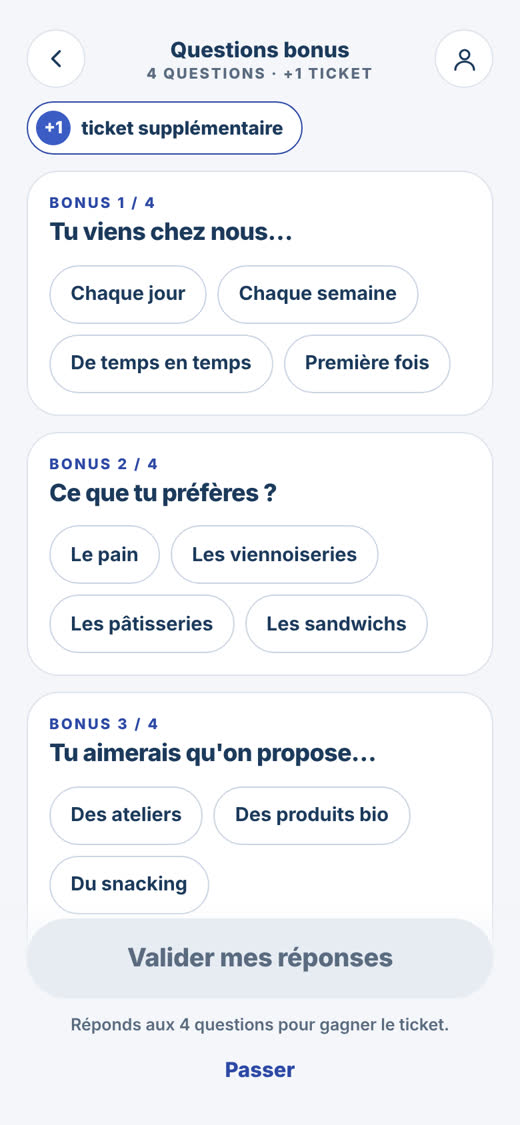
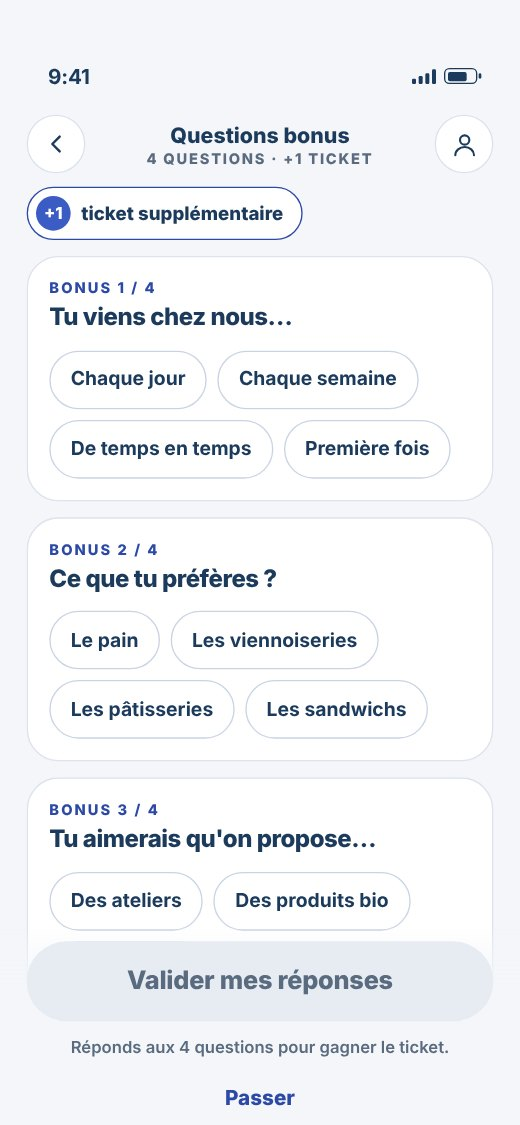
Jeux (audit 17/11, expert 1) : tombola debloquee, demo sans ecriture, enchainements automatiques, haptique, choix « rester en contact »
- Tombola : le parrainage menait a une impasse (pas d'acces aux coordonnees) ; nouvel etat inscrit.
- ?demo=1 conserve par la redirection /parcours -> /jouer (la demo ecrivait en base).
- Formulaire : cases et choix conserves apres une erreur d'envoi.
- Consentements : rester en contact avec Flowin Event / avec ce commerce, donnees jamais vendues, echangees ni commercialisees.
- Quiz : passage automatique a la question suivante, reponse touchee en couleur pleine, commerce dans la barre.
- Flash, roue, impression tombola, urne : suite automatique apres l'animation ; navigator.vibrate aux moments cles.
- Apres ticket / billet : voir mon profil, autres commerces.
- Cibles tactiles 44 px ; roue (pointeur, jante, moyeu, legende) ; tombola (amorce du billet, disques retires) ; bouton bleu #3B5CC4.
- Captures plaquette regenerees ; rapport docs/audit-2026-11-17/EXPERT-1-jeux.md.

Claude-Session: https://claude.ai/code/session_01ULZ5sPqYQcCeKhumQirdNM

diff --git a/admin/lib/masters/engine.ts b/admin/lib/masters/engine.ts
@@ -42,14 +42,20 @@ export interface EtatPartie {
   vitrineVote: boolean
   tombolaNo: string
   after: string | null
-  profil: { prenom?: string; nom?: string; email?: string; tel?: string; cp?: string; age?: string } | null
+  profil: { prenom?: string; nom?: string; email?: string; tel?: string; cp?: string; age?: string; genre?: string; src?: string } | null
+  /** Coordonnees validees pour cette partie (audit jeux 17/11) : decide si le parrainage
+   *  mene encore aux coordonnees. Avant, la tombola (ticket tire AVANT l'inscription)
+   *  restait bloquee sur le parrainage, sans acces au formulaire. */
+  inscrit: boolean
+  /** Cases cochees du formulaire, conservees si l'envoi echoue (avant : tout se decochait). */
+  consent: { jeu: boolean; anim: boolean; com: boolean }
   parrainN: number
   erreur: string
   envoi: boolean
 }
 
 export function etatInitial(): EtatPartie {
-  return { mesTickets: null, resultat: null, qi: 0, rep: [], bonnes: 0, bonusFait: false, ticket: '', ticketBonus: '', gain: null, caseIdx: null, rotation: -12, voteIdx: null, vitrineVote: false, tombolaNo: '', after: null, profil: null, parrainN: 0, erreur: '', envoi: false }
+  return { mesTickets: null, resultat: null, qi: 0, rep: [], bonnes: 0, bonusFait: false, ticket: '', ticketBonus: '', gain: null, caseIdx: null, rotation: -12, voteIdx: null, vitrineVote: false, tombolaNo: '', after: null, profil: null, inscrit: false, consent: { jeu: false, anim: false, com: false }, parrainN: 0, erreur: '', envoi: false }
 }
 
 /* ── Outils ────────────────────────────────────────────────────────────── */
@@ -259,7 +265,7 @@ function quizScreen(v: VueMaster, r: EtatPartie, state: 'idle' | 'ok' | 'ko'): s
   const q = v.questions[r.qi] || { txt: '[question à compléter]', opts: ['[réponse]', '[réponse]'], ok: 0, expl: '' }
   const tot = v.questions.length || 1, ring = 138.2, left = 30
   const choix = r.rep[r.qi]
-  let h = '<div class="scr ' + (v.key === 'quiz' ? 'stage' : 'bg-o') + '">' + barre() + '<div class="qtop"><button class="iconbtn" data-go="s-accueil" aria-label="Quitter">' + icon('x', 20, 2) + '</button><div class="mid"><small>QUESTION ' + (r.qi + 1) + ' / ' + tot + '</small><div class="prog">' + v.questions.map(function (_, i) { return '<i class="' + (i <= r.qi ? 'on' : '') + '"></i>' }).join('') + '</div></div>' +
+  let h = '<div class="scr ' + (v.key === 'quiz' ? 'stage' : 'bg-o') + '">' + barre() + '<div class="qtop"><button class="iconbtn" data-go="s-accueil" aria-label="Quitter">' + icon('x', 20, 2) + '</button><div class="mid"><small class="qcom">' + mono(v, 'width:22px;height:22px;font-size:9px;border-radius:7px') + '<span class="qnom">' + esc(v.who.nom) + '</span><span>QUESTION ' + (r.qi + 1) + ' / ' + tot + '</span></small><div class="prog">' + v.questions.map(function (_, i) { return '<i class="' + (i <= r.qi ? 'on' : '') + '"></i>' }).join('') + '</div></div>' +
     '<div class="timer"><svg width="54" height="54" viewBox="0 0 54 54"><circle cx="27" cy="27" r="22" fill="#fff" stroke="#E7ECF3" stroke-width="5"/><circle class="tring" cx="27" cy="27" r="22" fill="none" stroke="var(--ring,var(--c))" stroke-width="5" stroke-linecap="round" stroke-dasharray="' + ring + '" stroke-dashoffset="' + (state === 'idle' ? 0 : n1(ring * .6)) + '"/></svg><b class="tnum">' + (state === 'idle' ? left : '') + '</b></div></div>' +
     BAND + '<div class="body"><div class="card qcard">' + geo([['c', 290, -40, 100, 'var(--c2)']]) + '<div class="kicker" style="position:relative">' + esc(v.who.nom) + '</div><h2 class="qtxt">' + esc(q.txt) + '</h2></div><div class="opts">'
   q.opts.forEach(function (o, i) {
@@ -314,6 +320,21 @@ S['q-bonusok'] = { r: function (v, r) {
 } }
 
 /* Inscription et gain */
+/** Consentements (audit 17/11, regle Romain) : 1 case obligatoire pour le jeu, puis les deux
+ *  choix facultatifs « rester en contact avec Flowin Event » et « rester en contact avec ce
+ *  commerce ». Donnees utilisees par Flowin ou par le commerce choisi, jamais vendues,
+ *  echangees ni commercialisees. Aucune case cochee par defaut. */
+function caseConsent(cle: string, on: boolean, texte: string, req: boolean): string {
+  return '<div class="consent' + (on ? ' on' : '') + '" data-tog' + (req ? ' data-req' : '') + ' data-consent="' + cle + '" role="checkbox" aria-checked="' + on + '" tabindex="0"><span class="box">' + icon('check', 16, 3) + '</span><div><p>' + texte + '</p>' + (req ? '<em class="req">Obligatoire</em>' : '<em>Facultatif</em>') + '</div></div>'
+}
+function consentements(v: VueMaster, r: EtatPartie): string {
+  const c = r.consent || { jeu: false, anim: false, com: false }
+  return '<div style="margin-top:16px">' +
+    caseConsent('jeu', c.jeu, 'J\'autorise Flowin à conserver mes coordonnées uniquement dans le cadre du jeu. Mes données ne sont ni échangées ni revendues.', true) +
+    caseConsent('anim', c.anim, 'Je souhaite rester en contact avec Flowin Event : offres, bons deals, prochains events.', false) +
+    caseConsent('com', c.com, 'Je souhaite rester en contact avec ce commerce' + (v.who.nom ? ' : ' + esc(v.who.nom) : '') + '.', false) +
+    '<p class="mention" style="text-align:left">Tes données sont utilisées par Flowin ou par le commerce choisi. Elles ne sont jamais vendues, échangées ni commercialisées.</p></div>'
+}
 S['c-inscription'] = { tall: true, r: function (v, r) {
   const ages = ['Moins de 18', '18–24', '25–34', '35–44', '45–54', '55–64', '65 et +'], src = ['Instagram', 'Facebook', 'Affiche', 'Bouche à oreille', 'Autre']
   const imm = r.after === 'c-billet'
@@ -326,12 +347,11 @@ S['c-inscription'] = { tall: true, r: function (v, r) {
     '<div class="two"><div class="fld"><label for="f1">Prénom</label><input id="f1" class="inp" autocomplete="given-name" value="' + esc(p.prenom || '') + '"></div><div class="fld"><label for="f2">Nom</label><input id="f2" class="inp" autocomplete="family-name" value="' + esc(p.nom || '') + '"></div></div>' +
     '<div class="fld"><label for="f3">Email</label><input id="f3" class="inp" type="email" autocomplete="email" value="' + esc(p.email || '') + '"></div>' +
     '<div class="fld"><label for="f4">Téléphone</label><input id="f4" class="inp" type="tel" autocomplete="tel" value="' + esc(p.tel || '') + '"></div>' +
-    '<div class="fld"><div class="lab">Sexe <span class="opt-l">facultatif</span></div><div class="seg" role="radiogroup" aria-label="Sexe"><button data-seg data-genre="Homme">Homme</button><button data-seg data-genre="Femme">Femme</button></div></div>' +
+    '<div class="fld"><div class="lab">Sexe <span class="opt-l">facultatif</span></div><div class="seg" role="radiogroup" aria-label="Sexe"><button data-seg data-genre="Homme"' + (p.genre === 'Homme' ? ' class="on"' : '') + '>Homme</button><button data-seg data-genre="Femme"' + (p.genre === 'Femme' ? ' class="on"' : '') + '>Femme</button></div></div>' +
     '<div class="fld"><div class="lab">Tranche d\'âge</div><div class="ages">' + ages.map(function (a) { return '<button class="chip' + (p.age === a ? ' on' : '') + '" data-one="age" data-val="' + esc(a) + '">' + a + '</button>' }).join('') + '</div></div>' +
     '<div class="fld"><label for="f6">Code postal</label><input id="f6" class="inp" inputmode="numeric" autocomplete="postal-code" style="width:50%" value="' + esc(p.cp || '') + '"></div>' +
-    '<div class="fld"><div class="lab">Comment nous as-tu connus ?</div><div class="chips">' + src.map(function (s) { return '<button class="chip" data-one="src" data-val="' + esc(s) + '">' + s + '</button>' }).join('') + '</div></div>' +
-    '<div style="margin-top:16px"><div class="consent" data-tog data-req data-consent="jeu" role="checkbox" aria-checked="false" tabindex="0"><span class="box">' + icon('check', 16, 3) + '</span><div><p>J\'autorise Flowin à conserver mes coordonnées uniquement dans le cadre du jeu. Mes données ne sont ni échangées ni revendues.</p><em class="req">Obligatoire</em></div></div>' +
-    '<div class="consent" data-tog data-consent="anim" role="checkbox" aria-checked="false" tabindex="0"><span class="box">' + icon('check', 16, 3) + '</span><div><p>J\'autorise Flowin à me faire participer à ses animations.</p><em>Facultatif</em></div></div></div>' +
+    '<div class="fld"><div class="lab">Comment nous as-tu connus ?</div><div class="chips">' + src.map(function (s) { return '<button class="chip' + (p.src === s ? ' on' : '') + '" data-one="src" data-val="' + esc(s) + '">' + s + '</button>' }).join('') + '</div></div>' +
+    consentements(v, r) +
     (r.erreur ? '<p class="fm-err" role="alert">' + esc(r.erreur) + '</p>' : '') + '</div>' +
     foot(btn(r.envoi ? 'Envoi…' : 'Valider et recevoir mon gain', 'c-valider', '', ' data-need disabled') + '<p class="mention">Coche la première case pour valider.</p>') + '</div>'
 } }
@@ -344,7 +364,7 @@ S['c-billet'] = { tall: true, r: function (v, r) {
     '<div class="body" style="padding-top:2px"><h2 class="h2 a-rise" style="text-align:center;font-size:33px">Bravo, c\'est gagné&nbsp;!</h2>' +
     '<div class="billet"><div class="bt">' + geo([['c', 250, -40, 140, '#fff'], ['h', 300, 70, 70, '#fff']]) + '<small>Billet gagnant · ' + esc(v.billetChez) + '</small><h3>' + esc(nom) + '</h3><span>' + esc(cond) + '</span></div><div class="perf"><i></i><i></i></div>' +
     '<div class="bb"><div class="qrw" data-qr="' + esc(code) + '">' + qr(42, 110) + '</div><dl class="kv"><dt>N° de billet</dt><dd class="num">' + esc(code) + '</dd><dt>Valable jusqu\'au</dt><dd>' + txt(v.tirage) + '</dd><dt>Où</dt><dd>' + esc(v.billetChez) + '</dd></dl></div></div>' +
-    '<p class="mention" style="color:var(--ink2);font-size:13.5px">Montre ce billet en caisse : le commerçant le valide avec son code. Il est rangé dans ton profil.</p></div>' +
+    '<p class="mention" style="color:var(--ink2);font-size:13.5px">Montre ce billet en caisse : le commerçant le valide avec son code. Il est rangé dans ton profil.</p><button class="lnk" data-go="c-profil">Voir mon lot dans mon profil</button></div>' + autresCommerces(v) +
     dock({ cta: btn('Parrainer mes amis', 'c-parrainage'), nav: '' }) + '</div>'
 } }
 
@@ -365,7 +385,7 @@ S['c-ticket'] = { tall: true, r: function (v, r) {
     (n ? '<div class="tk"><div class="main"><small>Ticket · ' + esc(v.who.nom) + '</small><b class="num">' + esc(code) + '</b><span>Tirage au sort le ' + txt(v.tirage) + '</span></div><div class="stub"><b>N° ' + esc(numCourt(code)) + '</b></div></div>' : '') +
     '<div class="card stack a-rise" style="--d:.5s"><span class="cnt">' + n + '</span><p>' + (n > 1 ? 'tickets pour ce tirage. ' : 'ticket pour ce tirage. ') + (n ? 'On te prévient par email si tu gagnes.' : 'Fais un sans-faute demain pour gagner ton ticket.') + '</p></div>' +
     '<div class="card infobox a-rise" style="--d:.6s"><div class="inforow">' + icon('users', 21) + '<span>' + esc(v.parrain) + '</span></div><div class="inforow">' + icon('clock', 21) + 'Reviens demain : une partie par jour et par commerce</div></div></div>' +
-    autresCommerces(v) +
+    autresCommerces(v) + '<button class="lnk" data-go="c-profil">Voir mes tickets dans mon profil</button>' +
     dock({ cta: btn('Parrainer mes amis', 'c-parrainage'), nav: '' }) + '</div>'
 } }
 
@@ -374,7 +394,7 @@ S['c-parrainage'] = { tall: true, r: function (v, r) {
   const se = v.superEvent
   /* Etape AVANT les coordonnees (Romain, 31/10) : resultat -> parrainage ->
      coordonnees -> « Valider et recevoir mon gain ». */
-  const avant = !r.ticket && !!r.after
+  const avant = !r.inscrit && !!r.after
   return '<div class="scr bg-w">' + barre() + hdr(v, { back: 's-accueil', title: 'Parraine tes amis', small: 'Gagne plus de chances' }) +
     '<div class="body" style="padding-top:6px"><div class="card event" style="padding:16px;margin-top:4px;background:var(--home)">' + geo([['c', 255, -30, 110, 'var(--c)'], ['o', 300, 62, 40, '#fff']]) +
     '<div class="kicker" style="color:var(--ink)">Ta récompense</div><div style="font-size:20px;font-weight:800;line-height:1.2;margin-top:6px;max-width:215px">' + esc(v.parrain) + '</div>' +
@@ -601,8 +621,8 @@ function tombolaTicket(v: VueMaster, r: EtatPartie): string {
     '<div class="line"></div><div style="font-size:14px;font-weight:800">Tirage au sort le ' + txt(v.tirage) + '</div><div class="bar"></div><div style="font-size:11px;font-weight:700;color:var(--muted);margin-top:6px">' + esc(v.who.nom) + '</div></div>'
 }
 S['t-tirer'] = { r: function (v) {
-  return '<div class="scr bg-o">' + barre() + geo([['c', -50, 560, 170, 'var(--c2)'], ['h', 280, 640, 120, 'var(--c)', 0, .1]]) + hdr(v, { back: 's-regles' }) + BAND + etapes(0) +
-    '<div class="body" style="text-align:center"><div class="kicker" style="margin-top:14px">Tombola du jour</div><h2 class="h2" style="font-size:34px;margin-top:6px">Ton ticket<br>t\'attend</h2><div class="machine"><div class="slot"></div></div>' +
+  return '<div class="scr bg-o">' + barre() + hdr(v, { back: 's-regles' }) + BAND + etapes(0) +
+    '<div class="body" style="text-align:center"><div class="kicker" style="margin-top:14px">Tombola du jour</div><h2 class="h2" style="font-size:34px;margin-top:6px">Ton ticket<br>t\'attend</h2><div class="machine"><div class="slot"></div><div class="amorce" aria-hidden="true"><div class="amorce-tk"><small>Ticket n°</small><i></i></div></div></div>' +
     '<button class="bigbtn" data-go="t-impression">Tirer<br>mon ticket</button><p class="mention" style="margin-top:34px">Un ticket par jour et par commerce</p></div></div>'
 } }
 S['t-impression'] = { r: function (v, r) {
@@ -626,16 +646,17 @@ S['t-res-instant'] = { r: function (v) {
 /* Roue */
 function wheelSvg(v: VueMaster): string {
   const cx = 165, cy = 165, r = 146, n = Math.max(2, v.cases.length), pas = 360 / n
-  let h = '<svg viewBox="0 0 330 330"><circle cx="165" cy="165" r="163" fill="#fff" stroke="#C9D4E3" stroke-width="1.5"/>'
+  let h = '<svg viewBox="0 0 330 330"><circle cx="165" cy="165" r="161" fill="#fff" stroke="#0F172A" stroke-width="5"/>'
   v.cases.forEach(function (s, i) {
     const a0 = (i * pas - pas / 2) * Math.PI / 180, a1 = (i * pas + pas / 2) * Math.PI / 180
     h += '<path d="M' + cx + ' ' + cy + ' L' + n1(cx + r * Math.sin(a0)) + ' ' + n1(cy - r * Math.cos(a0)) + ' A' + r + ' ' + r + ' 0 ' + (pas > 180 ? 1 : 0) + ' 1 ' + n1(cx + r * Math.sin(a1)) + ' ' + n1(cy - r * Math.cos(a1)) + 'Z" fill="' + esc(s.fond) + '" stroke="#fff" stroke-width="3"/>'
     h += '<g transform="rotate(' + (i * pas) + ' ' + cx + ' ' + cy + ')"><text x="' + cx + '" y="' + (cy - r * .6) + '" transform="rotate(-90 ' + cx + ' ' + (cy - r * .6) + ')" text-anchor="middle" dominant-baseline="central" font-family="Roboto,sans-serif" font-weight="800" font-size="' + (s.label.length > 11 ? 12.5 : 15) + '" fill="' + esc(s.texte) + '">' + esc(s.label.length > 16 ? s.label.slice(0, 15) + '…' : s.label) + '</text></g>'
   })
   for (let k = 0; k < 16; k++) { const a = k * 22.5 * Math.PI / 180; h += '<circle class="bulb' + (k % 2 ? ' b2' : '') + '" cx="' + n1(cx + 155 * Math.sin(a)) + '" cy="' + n1(cy - 155 * Math.cos(a)) + '" r="4" fill="#F5A100"/>' }
-  return h + '<circle cx="165" cy="165" r="34" fill="#fff" stroke="#C9D4E3" stroke-width="1.5"/><circle cx="165" cy="165" r="14" fill="var(--c)"/></svg>'
+  return h + '<circle cx="165" cy="165" r="146" fill="none" stroke="#0F172A" stroke-width="2"/><circle cx="165" cy="165" r="32" fill="#fff" stroke="#0F172A" stroke-width="6"/><circle cx="165" cy="165" r="12" fill="var(--c)"/></svg>'
 }
-function pointer(): string { return '<svg class="pointer" viewBox="0 0 40 48"><path d="M20 46 L4 12 A16 16 0 1 1 36 12 Z" fill="#fff" stroke="#C9D4E3" stroke-width="1.5"/><circle cx="20" cy="15" r="6" fill="var(--c)"/></svg>' }
+/* Pointeur facon film (audit coherence 17/11) : triangle rouge cerne, pointe vers le bas, a cheval sur la jante. */
+function pointer(): string { return '<svg class="pointer" viewBox="0 0 40 48"><path d="M4 4 L36 4 L20 44 Z" fill="#E5322D" stroke="#0F172A" stroke-width="4" stroke-linejoin="round"/></svg>' }
 function wheelBlock(v: VueMaster, rot: number): string { return '<div class="wheelbox">' + pointer() + '<div class="wheel" style="transform:rotate(' + rot + 'deg)">' + wheelSvg(v) + '</div></div>' }
 /** Rotation finale qui amene la case i sous l'aiguille. */
 export function rotationPourCase(v: VueMaster, i: number): number { const pas = 360 / Math.max(2, v.cases.length); return 360 * 5 - i * pas }
@@ -643,7 +664,7 @@ function caseCourante(v: VueMaster, r: EtatPartie) { return r.caseIdx != null ? 
 S['r-roue'] = { r: function (v) {
   const tir = v.lots.find(function (l) { return l.mode === 'tir' })
   return '<div class="scr bg-m">' + barre() + hdr(v, { back: 's-regles' }) + BAND + etapes(0) + '<div class="body" style="text-align:center"><div class="kicker" style="margin-top:12px">Un tour offert</div><h2 class="h2" style="font-size:33px;margin-top:4px">Tente ta chance</h2>' + wheelBlock(v, -12) +
-    '<div class="legend">' + icon('ticket', 18) + 'Case « Ticket » : 1 ticket pour le tirage du ' + txt(courte(v.tirage)) + (tir ? '' : '') + '</div></div>' + foot(btn('Lancer la roue', 'r-lancer', 'a-pulse')) + '</div>'
+    '<div class="legend">' + icon('ticket', 18) + '<span>Case « Ticket » : 1 ticket pour le tirage du ' + txt(courte(v.tirage)) + (tir ? '' : '') + '</span></div></div>' + foot(btn('Lancer la roue', 'r-lancer', 'a-pulse')) + '</div>'
 } }
 S['r-tourne'] = { r: function (v, r) {
   const c = caseCourante(v, r)

diff --git a/admin/app/jouer/JouerClient.tsx b/admin/app/jouer/JouerClient.tsx
@@ -20,7 +20,26 @@ import { MASTER_CSS } from '@/lib/masters/css'
 import { rendreEcran, etatInitial, rotationPourCase, regleBarre, regleParte, regleSuperReel, reglePastille, ecranExiste, DEROULES, type EtatPartie } from '@/lib/masters/engine'
 import { chargerMesTickets, nonVus, versVue, marquerVus, TICKETS_EXEMPLE, type ResultatRow } from '@/lib/masters/tickets'
 import type { VueMaster } from '@/lib/masters/resolve'
-import { writeJoueur, getJoueurLocal, animationDejaJouee, dejaJoueAujourdhuiCeQr, CONSENTEMENT_VERSION } from '@/lib/parcours'
+import { writeJoueur, getJoueurLocal, animationDejaJouee, dejaJoueAujourdhuiCeQr } from '@/lib/parcours'
+
+/* Version du texte de consentement des masters (audit 17/11 : ajout des choix « rester en
+   contact avec Flowin Event » et « rester en contact avec ce commerce »). */
+const CONSENTEMENT_MASTER_VERSION = 'flowin-consentement-2026-11-17'
+/* Enchainement automatique (ecran -> [suite, delai ms]) des ecrans sans decision. */
+const AUTO_SUITE: Record<string, [string, number]> = {
+  's-flash': ['s-accueil', 2600],
+  'q-bonne': ['@suite-quiz', 2200],
+  'q-mauvaise': ['@suite-quiz', 3600],
+  't-impression': ['t-resultat', 3700],
+  'r-tourne': ['r-resultat', 6000],
+  'v-envoi': ['v-resultat', 2900],
+}
+/* Retour haptique (navigator.vibrate, ignore la ou il n'existe pas, ex. iOS Safari). */
+const VIBRATIONS: Record<string, number | number[]> = {
+  'q-bonne': 35, 'q-mauvaise': [20, 60, 20],
+  'r-gain': [60, 50, 120], 't-res-instant': [60, 50, 120], 'c-billet': [60, 50, 120],
+  'q-bonusok': [40, 40, 80], 'r-ticket': [40, 40, 80], 'c-ticket': 40, 'v-envoi': 30,
+}
 import { doitRefuserDigital } from '@/components/parcours/ParcoursHero'
 import { buildInviteLink } from '@/lib/parrainage'
 import { generateTicket } from '@/lib/ticket'
@@ -154,6 +173,12 @@ export default function JouerClient(p: Props) {
     /* Animations et minuteurs d'entree d'ecran. */
     function entree(id: string, el: HTMLElement | null) {
       if (!el) return
+      /* Audit jeux 17/11 : retour haptique et enchainement automatique des ecrans d'attente.
+         Le bouton reste affiche (le joueur presse peut toucher avant). Jamais dans un cadre
+         d'apercu ni sur un ecran de depart impose (navigation manuelle du Super Admin). */
+      vibrer(VIBRATIONS[id])
+      const auto = AUTO_SUITE[id]
+      if (auto && !enCadre && !p.apercu) plus_tard(() => { if (courant.current === id) aller(auto[0]) }, auto[1])
       if (id === 'q-question' && p.timer > 0) {
         let n = p.timer
         const b = el.querySelector('.tnum'), ring = el.querySelector('.tring')
@@ -268,6 +293,10 @@ export default function JouerClient(p: Props) {
         : '<div class="card" style="padding:14px 16px;margin-top:12px;font-weight:600;color:#3a4d63">Pas encore de super ticket : joue dans une station.</div>'
     }
 
+    function vibrer(motif?: number | number[]) {
+      if (!motif) return
+      try { if (typeof navigator !== 'undefined' && typeof navigator.vibrate === 'function') navigator.vibrate(motif) } catch { /* ignore */ }
+    }
     function repondre(i: number | null) {
       if (courant.current !== 'q-question') return
       const q = v.questions[r.qi]
@@ -293,7 +322,7 @@ export default function JouerClient(p: Props) {
         genre: on('[data-genre]')?.getAttribute('data-genre') || '',
         age: on('[data-one="age"]')?.getAttribute('data-val') || '',
         src: on('[data-one="src"]')?.getAttribute('data-val') || '',
-        jeu: !!on('[data-consent="jeu"]'), anim: !!on('[data-consent="anim"]'),
+        jeu: !!on('[data-consent="jeu"]'), anim: !!on('[data-consent="anim"]'), com: !!on('[data-consent="com"]'),
       }
     }
     function majValider() {
@@ -313,11 +342,12 @@ export default function JouerClient(p: Props) {
       else if (f.email.indexOf('@') < 1) err = 'Ton email semble incomplet.'
       else if (f.tel.replace(/\s/g, '').length < 8) err = 'Ton numéro de téléphone semble incomplet.'
       else if (!f.jeu) err = 'Coche la première case pour valider.'
-      r.profil = { prenom: f.prenom, nom: f.nom, email: f.email, tel: f.tel, cp: f.cp, age: f.age }
+      r.profil = { prenom: f.prenom, nom: f.nom, email: f.email, tel: f.tel, cp: f.cp, age: f.age, genre: f.genre, src: f.src }
+      r.consent = { jeu: f.jeu, anim: f.anim, com: f.com }
       if (err) { r.erreur = err; montrer('c-inscription', true); return }
       r.erreur = ''
       const apres = r.after || 'c-ticket'
-      if (p.demo || !p.evId) { r.ticket = generateTicket(p.prefixe as TicketPrefix); montrer(apres); return }
+      if (p.demo || !p.evId) { r.ticket = generateTicket(p.prefixe as TicketPrefix); r.inscrit = true; montrer(apres); return }
       r.envoi = true; majValider()
       const parfait = v.questions.length > 0 && r.bonnes >= v.questions.length
       const quiz = v.key === 'quiz' || v.key === 'solo'
@@ -325,6 +355,10 @@ export default function JouerClient(p: Props) {
       const bonus: Record<string, unknown> = {}
       if (v.key === 'vote' && r.voteIdx != null) { bonus.vote_mode = r.vitrineVote ? 'vitrine' : 'choix'; bonus.vote_choix = (r.vitrineVote ? v.vitrines : v.candidats)[r.voteIdx]?.nom ?? null }
       Object.keys(reponsesBonus).forEach(k => { bonus[k] = reponsesBonus[k] })
+      /* Choix « rester en contact avec ce commerce » : trace avec les reponses de la partie
+         (se_reponses), sans nouvelle colonne. « Rester en contact avec Flowin Event » = optin. */
+      bonus.optin_commerce = f.com
+      bonus.optin_flowin_event = f.anim
       const res = await writeJoueur({
         email: f.email, prenom: f.prenom, nom: f.nom, tel: f.tel, code_postal: f.cp || undefined,
         genre: f.genre || undefined, age_tranche: f.age || undefined, decouverte: f.src || undefined,
@@ -332,14 +366,15 @@ export default function JouerClient(p: Props) {
         lot_gagne: cas && cas.issue === 'imm' ? cas.label : undefined,
         events: [p.evId], ticket_code: r.ticket || generateTicket(p.prefixe as TicketPrefix), source: p.source, prefix: p.prefixe,
         bonus_reponses: Object.keys(bonus).length ? bonus : undefined,
-        optin: f.anim, optin_version: CONSENTEMENT_VERSION,
+        optin: f.anim, optin_version: CONSENTEMENT_MASTER_VERSION,
         ...(quiz ? { quiz_ticket: parfait, bonus_ticket: r.bonusFait } : {}),
       })
       r.envoi = false
       if (res.digitalRefuse) { montrer('c-digital'); return }
-      if (res.duplicate) { r.ticket = res.ticket; montrer('c-demain'); return }
+      if (res.duplicate) { r.ticket = res.ticket; r.inscrit = true; montrer('c-demain'); return }
       if (!res.success) { r.erreur = 'Enregistrement impossible pour le moment, réessaie dans un instant.'; montrer('c-inscription', true); return }
       r.ticket = res.ticket
+      r.inscrit = true
       if (res.gain) { r.gain = { lot: res.gain.lot, cond: res.gain.conditions || 'Gain immédiat', token: res.gain.retraitToken }; if (res.gain.ticketCode) r.ticket = res.gain.ticketCode; montrer('c-billet'); return }
       montrer(apres === 'c-billet' && !res.gain ? 'c-ticket' : apres)
     }
@@ -362,6 +397,7 @@ export default function JouerClient(p: Props) {
 
     function aller(go: string, repli?: string) {
       if (go === '@retour') { retour(repli || ''); return }
+      if (go === '@suite-quiz') { aller(r.qi + 1 < v.questions.length ? 'q-suivante' : 'q-resultat'); return }
       if (go === 'q-suivante') { r.qi = Math.min(r.qi + 1, v.questions.length - 1); montrer('q-question'); return }
       if (go === 'q-question') { if (courant.current === 's-regles') { r.qi = 0; r.bonnes = 0; r.rep = [] } montrer('q-question'); return }
       if (go === 'q-bonusvalider') {
@@ -392,7 +428,14 @@ export default function JouerClient(p: Props) {
       const href = t.closest('[data-href]') as HTMLElement | null
       if (href) { location.href = href.getAttribute('data-href') || '/'; return }
       const rep = t.closest('[data-rep]') as HTMLElement | null
-      if (rep) { repondre(Number(rep.getAttribute('data-rep'))); return }
+      if (rep) {
+        /* Retour immediat : la reponse touchee passe en couleur pleine, puis le verdict. */
+        if (host!.querySelector('.opt.pick')) return
+        rep.classList.add('pick')
+        vibrer(12)
+        plus_tard(() => repondre(Number(rep.getAttribute('data-rep'))), 260)
+        return
+      }
       const sh = t.closest('[data-share]') as HTMLElement | null
       if (sh) { partager(sh.getAttribute('data-share') || 'wa'); return }
       const seg = t.closest('[data-seg]') as HTMLElement | null

diff --git a/admin/lib/masters/css.ts b/admin/lib/masters/css.ts
@@ -2,7 +2,7 @@
    CSS des ecrans telephone, couleurs remplacees par les jetons du theme. */
 export const MASTER_CSS = `/* Variables courtes des maquettes, branchees sur le fichier de theme unique
    public/flowin-theme.css (jetons --fl-*). L'accent commun = --fl-accent. */
-.fm{--ink:var(--fl-ink);--ink2:var(--fl-ink-2);--muted:var(--fl-muted);--line:var(--fl-line);--field:var(--fl-field);--cta:var(--fl-accent);
+.fm{--ink:var(--fl-ink);--ink2:var(--fl-ink-2);--muted:var(--fl-muted);--line:var(--fl-line);--field:var(--fl-field);--cta:#3B5CC4;
 --white:#FFFFFF;--off:var(--fl-paper);--mint:var(--fl-mint);--sky:var(--fl-sky);--peach:var(--fl-mint);
 --coral:#F26B4F;--violet:var(--fl-solo);--gold:#F5A100;--teal:var(--fl-spin);--blue:var(--fl-vote);--sy:var(--fl-super-jaune);--sr:var(--fl-super-rouge);--sb:var(--fl-super-bleu);--logo-in:var(--fl-blue);
 --ok:var(--fl-ok);--ko:var(--fl-ko);--page:var(--fl-paper);
@@ -72,7 +72,7 @@ color:var(--ink);font-family:var(--fl-font);-webkit-font-smoothing:antialiased}
 .btn.teal{background:var(--cta);color:#fff}
 .btn[disabled]{background:#E7ECF3;color:var(--fl-muted);box-shadow:none;cursor:not-allowed}
 .btn+.btn{margin-top:12px}
-.lnk{display:block;width:100%;text-align:center;font-weight:800;font-size:15.5px;color:var(--c-ink);padding:14px 10px 4px;background:none;border:0;cursor:pointer}
+.lnk{display:block;width:100%;min-height:44px;text-align:center;font-weight:800;font-size:15.5px;color:var(--c-ink);padding:14px 10px 4px;background:none;border:0;cursor:pointer}
 .mention{font-size:12.5px;line-height:1.45;text-align:center;color:var(--muted);font-weight:600;margin-top:12px}
 
 /* typographie */
@@ -204,7 +204,7 @@ color:var(--ink);font-family:var(--fl-font);-webkit-font-smoothing:antialiased}
 .seg button{border:0;background:transparent;border-radius:12px;font-weight:800;font-size:15.5px;color:var(--ink2);cursor:pointer}
 .seg button.on{background:#fff;color:var(--ink);box-shadow:inset 0 0 0 1.5px var(--ink)}
 .ages{display:grid;grid-template-columns:repeat(4,1fr);gap:7px}
-.ages .chip{padding:0 6px;justify-content:center;font-size:13.5px;min-height:42px}
+.ages .chip{padding:0 6px;justify-content:center;font-size:13.5px;min-height:44px}
 .ages .chip:first-child{grid-column:span 2}
 .consent{display:flex;gap:13px;align-items:flex-start;padding:14px;border:1.5px solid var(--field);border-radius:18px;cursor:pointer;margin-top:12px;background:#fff}
 .consent .box{width:26px;height:26px;border-radius:8px;border:2px solid #8797AB;flex:none;display:grid;place-items:center;color:#fff;margin-top:1px}
@@ -365,7 +365,7 @@ color:var(--ink);font-family:var(--fl-font);-webkit-font-smoothing:antialiased}
 .resultchip small{display:block;font-size:11px;font-weight:800;letter-spacing:.12em;text-transform:uppercase;color:#00796B}
 .resultchip b{display:block;font-size:26px;font-weight:800;letter-spacing:-.03em;margin-top:2px}
 .after{animation:rise .5s 5s both}
-.legend{display:flex;gap:10px;align-items:center;justify-content:center;font-size:13.5px;font-weight:700;color:var(--ink2);margin-top:16px;text-align:center;padding:0 10px}
+.legend{display:flex;gap:8px;align-items:center;justify-content:center;flex-wrap:nowrap;font-size:13.5px;font-weight:700;color:var(--ink2);margin-top:16px;text-align:center;padding:0 10px}
 
 /* tombola */
 .machine{position:relative;margin:24px auto 0;width:300px}
@@ -572,10 +572,23 @@ color:var(--ink);font-family:var(--fl-font);-webkit-font-smoothing:antialiased}
 .tag.st-attente{background:#fff;border-color:#AEBBCD;color:var(--fl-ink)}
 .tag.st-gagne{background:#DDF3F0;color:#0B6F67}
 .tag.st-perdu{background:#FDECEC;color:#9B2323}
-.nav a{position:relative}
+.nav a{position:relative;min-height:44px}
 .nav .pastille{position:absolute;top:-1px;left:calc(50% + 6px);min-width:18px;height:18px;padding:0 5px;border-radius:99px;background:var(--fl-touche);color:#fff;font-size:11px;font-weight:800;display:grid;place-items:center;border:2px solid #fff;line-height:1}
 .card.alerte{display:flex;gap:12px;align-items:center;width:100%;padding:12px 14px;margin-top:14px;cursor:pointer;border-color:var(--fl-accent);background:var(--fl-accent-soft);font-family:inherit;color:var(--ink)}
 .card.alerte .ai{width:42px;height:42px;border-radius:13px;background:var(--fl-accent);color:#fff;display:grid;place-items:center;flex:none}
 .card.alerte b{display:block;font-size:15px;font-weight:800}
 .card.alerte small{display:block;font-size:12.5px;color:var(--ink2);font-weight:600;margin-top:2px}
+/* Audit jeux / coherence films (17/11) */
+.legend{display:block;font-size:12px;letter-spacing:-.015em;padding:0 2px;white-space:nowrap;overflow:hidden;text-overflow:ellipsis}@media (max-width:370px){.legend{white-space:normal}}.legend>svg{display:inline-block;vertical-align:-4px;margin-right:6px}.legend>span{display:inline}
+.opt.pick{background:var(--cta);border-color:transparent;color:#fff}
+.opt.pick .k{background:#fff;color:var(--ink);border-color:#fff}
+.qcom{display:flex!important;align-items:center;gap:7px;white-space:nowrap;overflow:hidden}
+.qcom .mono{flex:none}
+.qcom .qnom{overflow:hidden;text-overflow:ellipsis;max-width:46%;text-transform:none;letter-spacing:0}
+.amorce{position:relative;margin:-20px 22px 0;height:58px;overflow:hidden;z-index:2}
+.amorce-tk{position:absolute;left:0;right:0;top:0;height:58px;background:#fff;border:2px solid var(--c);border-top:0;border-radius:0 0 16px 16px;padding:24px 16px 0;text-align:center;animation:amorce 1.6s .4s ease-in-out infinite alternate}
+.amorce-tk small{display:block;font-size:10px;font-weight:800;letter-spacing:.16em;text-transform:uppercase;color:var(--c-ink)}
+.amorce-tk i{display:block;height:8px;margin:6px 10px 0;background:repeating-linear-gradient(90deg,var(--ink) 0 2px,transparent 2px 5px)}
+@keyframes amorce{from{transform:translateY(-14px)}to{transform:translateY(0)}}
+@media (prefers-reduced-motion:reduce){.amorce-tk{animation:none}}
 `

diff --git a/admin/lib/masters/redirection.ts b/admin/lib/masters/redirection.ts
@@ -19,7 +19,7 @@ export function versMasterSiBesoin(evId: string, cfg: unknown, sp: Record<string
   if (!m && !estModuleMaster(module)) return
   const q = new URLSearchParams()
   q.set('ev', evId)
-  ;['source', 'ref', 'etab', 'ch', 'apercu', 'token'].forEach(k => { if (sp[k]) q.set(k, String(sp[k])) })
+  ;['source', 'ref', 'etab', 'ch', 'apercu', 'token', 'demo'].forEach(k => { if (sp[k]) q.set(k, String(sp[k])) })
   if (sp.preview !== undefined) q.set('preview', '1')
   if (sp.bar === '0' || sp.sb === '1') q.set('sb', sp.bar === '0' ? '0' : '1')
   redirect('/jouer?' + q.toString())

diff --git a/docs/audit-2026-11-17/EXPERT-1-jeux.md b/docs/audit-2026-11-17/EXPERT-1-jeux.md
@@ -1,0 +1,53 @@
+# Expert 1 — Jeux (fluidité, effet « gaming ») — audit du 17/11/2026
+
+Périmètre : parcours joueur des masters (`/jouer`, vers lequel redirigent `/parcours/{quiz,quizsolo,spin,tombola,vote}`),
+`lib/masters/engine.ts`, `lib/masters/css.ts`, `lib/masters/redirection.ts`, `app/jouer/JouerClient.tsx`.
+NDS2026Client.tsx et nds2026Design.ts non modifiés. Design graphique validé conservé (seuls les points de l'expert 4 appliqués).
+
+Méthode : Playwright sur un `next start` de copie (port 3471), mobile 390 x 844, chargement mesuré en « Fast 3G »
+(562 ms de latence, 1,44 Mb/s) et CPU ralenti x4, parcours joué automatiquement du flash QR jusqu'au ticket.
+Événements : `ev-demo-tombola`, `ev-demo-quiz` (quiz + bonus), `ev-demo-quizsolo`, `ev-demo-spin`, `ev-flowin-demo`.
+Captures : `scratchpad/audit17/jeux/` (avant-*, apres-*, planche.png).
+
+## Chiffres avant / après
+
+| Jeu | Prêt à jouer (Fast 3G, CPU x4) | Gestes du flash au ticket | Écrans | Écritures Supabase en `?demo=1` |
+|---|---|---|---|---|
+| Tombola | 4,5 s → 4,1 s | **bloqué** (impasse sur le parrainage) → 10 | 8 (sans fin) → 9 | 0 → 0 |
+| Quiz + bonus (5 questions, 4 bonus) | 4,4 s → 4,1 s | 29 → 21 | 20 → 20 | **3 → 0** |
+| Quiz solo (5 questions) | 4,2 s → 4,1 s | 22 → 14 | 17 → 17 | **2 → 0** |
+| Roue | 4,4 s → 4,1 s | 13 → 10 | 9 → 9 | 0 → 0 |
+| Roue (ev-flowin-demo) | 4,2 s → 4,2 s | 14 → 10 | 9 → 9 | **3 → 0** |
+
+Les gestes comptent aussi les 4 champs du formulaire et la case obligatoire. Le temps de chargement reste dominé par
+le réseau (4 s en Fast 3G) : pas de régression. Le défilement du formulaire de coordonnées (587 px avant, environ
+760 px après) augmente avec les deux choix « rester en contact » demandés par Romain ; les champs collectés sont inchangés.
+
+## Constats et corrections
+
+| Gravité | Jeu | Constat | Preuve | Correction faite |
+|---|---|---|---|---|
+| Bloquant | Tombola | Après « Valider mon ticket », l'écran Parrainage n'offre aucun bouton vers les coordonnées : le ticket est tiré avant l'inscription, donc `r.ticket` est déjà rempli et l'étape « Continuer : mes coordonnées » disparaît. Le joueur ne peut jamais enregistrer sa participation. | avant-tombola-07-c-parrainage-390.png | Nouvel état `inscrit` : le parrainage mène aux coordonnées tant que la partie n'est pas validée. Parcours complet jusqu'au ticket (apres-tombola-09-c-ticket-390.png). |
+| Bloquant | Tous | `?demo=1` est perdu par la redirection `/parcours/<jeu>` → `/jouer` : la démo écrivait en base (PATCH joueurs, RPC, POST participations). Les lignes de test créées pendant l'audit (1 joueur `demo@example.invalid`, 3 participations, 1 réponse) ont été supprimées. | avant.json (`ecrituresSupabase`) | `demo` conservé dans `versMasterSiBesoin` ; vérifié : 0 requête non-GET vers supabase.co sur les 5 parcours. |
+| Majeur | Tous | Une erreur d'envoi (téléphone incomplet, réseau) réaffiche le formulaire avec toutes les cases décochées, sexe et « comment nous as-tu connus » perdus : le bouton redevient grisé. | avant.json (VALIDER-DESACTIVE) | Cases et choix conservés dans l'état de la partie et réaffichés. |
+| Majeur | Tous | Choix « rester en contact avec Flowin Event » et « rester en contact avec ce commerce » absents (seulement « participer à ses animations ») ; phrase « jamais vendues, échangées ni commercialisées » absente. | apres-quiz-19-c-inscription-390.png | Case obligatoire du jeu inchangée ; « Je souhaite rester en contact avec Flowin Event : offres, bons deals, prochains events. » (= optin) ; « Je souhaite rester en contact avec ce commerce : <nom>. » ; mention « Tes données sont utilisées par Flowin ou par le commerce choisi. Elles ne sont jamais vendues, échangées ni commercialisées. » Aucune case cochée par défaut. Choix commerce tracé dans `se_reponses` (`optin_commerce`), sans migration. Version `flowin-consentement-2026-11-17`. |
+| Majeur | Quiz, solo | Après chaque réponse, un geste « Question suivante » obligatoire (5 gestes de plus). | avant-quiz-05-q-bonne-390.png | Enchaînement automatique : 2,2 s après une bonne réponse, 3,6 s après une erreur (le temps de lire la correction). Le bouton reste pour aller plus vite. |
+| Moyen | Tous | Écran d'accueil « Bienvenue chez » : un geste sans décision. | avant-*-01-s-flash | Passage automatique à l'accueil après 2,6 s. |
+| Moyen | Roue, tombola, vote | Après l'animation (roue 4,6 s, impression 3 s, urne 2 s), il faut toucher « Recevoir mon gain » / « Découvrir le résultat » / « Continuer ». | avant-spin-05-r-tourne-390.png | Enchaînement automatique à la fin de l'animation (6 s, 3,7 s, 2,9 s), bouton conservé. |
+| Moyen | Tous | Aucun retour tactile. | — | `navigator.vibrate` (ignoré là où il n'existe pas, iOS) : toucher d'une réponse, bonne / mauvaise réponse, gain immédiat, ticket bonus, billet, ticket validé. |
+| Moyen | Quiz | Pas de retour immédiat sur la réponse touchée (expert 4, point 3). | apres-quiz-04 | La réponse touchée passe en couleur pleine 260 ms avant le verdict vert / rouge ; double toucher ignoré. |
+| Moyen | Tous | « Et après ? » faible après le ticket ou le billet : seul « Parrainer mes amis ». | apres-quiz-20-c-ticket-390.png | Ajout « Voir mes tickets dans mon profil » (ticket) et « Voir mon lot dans mon profil » + « Gagne d'autres tickets chez les commerces partenaires » (billet). |
+| Mineur | Tous | Cibles tactiles < 44 px : barre de navigation (43 px), liens « Passer » / « Plus tard » (37 px), tranches d'âge (42 px). | avant.json `petitesCibles` | Hauteur minimale 44 px. Reste : bouton « Quitter » du bandeau démo (hors app réelle). |
+| Mineur | Roue | Pointeur peu lisible, légende éclatée en colonnes (expert 4, points 1 et 2). | avant-spin-04-r-roue-390.png | Triangle rouge #E5322D cerné #0F172A, jante et moyeu cernés #0F172A, 6 secteurs inchangés ; légende sur une ligne centrée, date incluse. |
+| Mineur | Quiz | Commerce peu visible pendant la question (expert 4, point 4). | apres-quiz-04 | Monogramme + nom du commerce dans la barre « QUESTION 1 / 5 », sans ligne de plus. |
+| Mineur | Tombola | Fente vide, disques verts coupés en bas (expert 4, points 5 et 6). | avant-tombola-04-t-tirer-390.png | Amorce du billet (« Ticket n° », code-barres pointillé) sous la fente ; disques supprimés. |
+| Mineur | Tous | Bouton principal violet (#7A4FE0 par défaut) au lieu du bleu des films (expert 4, point 7). | avant-quiz-05 | `--cta` des jeux = #3B5CC4. |
+| Info | Tous | En démo, `appliquer_regle_gain` répond 400 (identifiant joueur fictif) ; 2 images 404 sur la tombola de démo. | apres.json | Sans effet joueur, laissé tel quel. |
+
+## Non modifié, à arbitrer par Romain
+- **Ordre parrainage → coordonnées** (décision du 31/10) : gardé. Le passer après le ticket ferait gagner 1 geste par jeu.
+- **Écran « Avant de jouer »** (règles) : gardé (information obligatoire du jeu), 1 geste.
+- Anciennes présentations (`cfg.masterOff`, composant `ParcoursConsentement`) : textes de consentement inchangés ; seuls les masters (tous les QR actuels) portent les nouveaux choix.
+
+## Captures de la plaquette
+`admin/public/validation/captures/app-jeu-{quiz,quiz-bonus,tombola,roue}.jpg` régénérées à 390 (520 px, `?demo=1`, bandeau démo masqué) après corrections.
